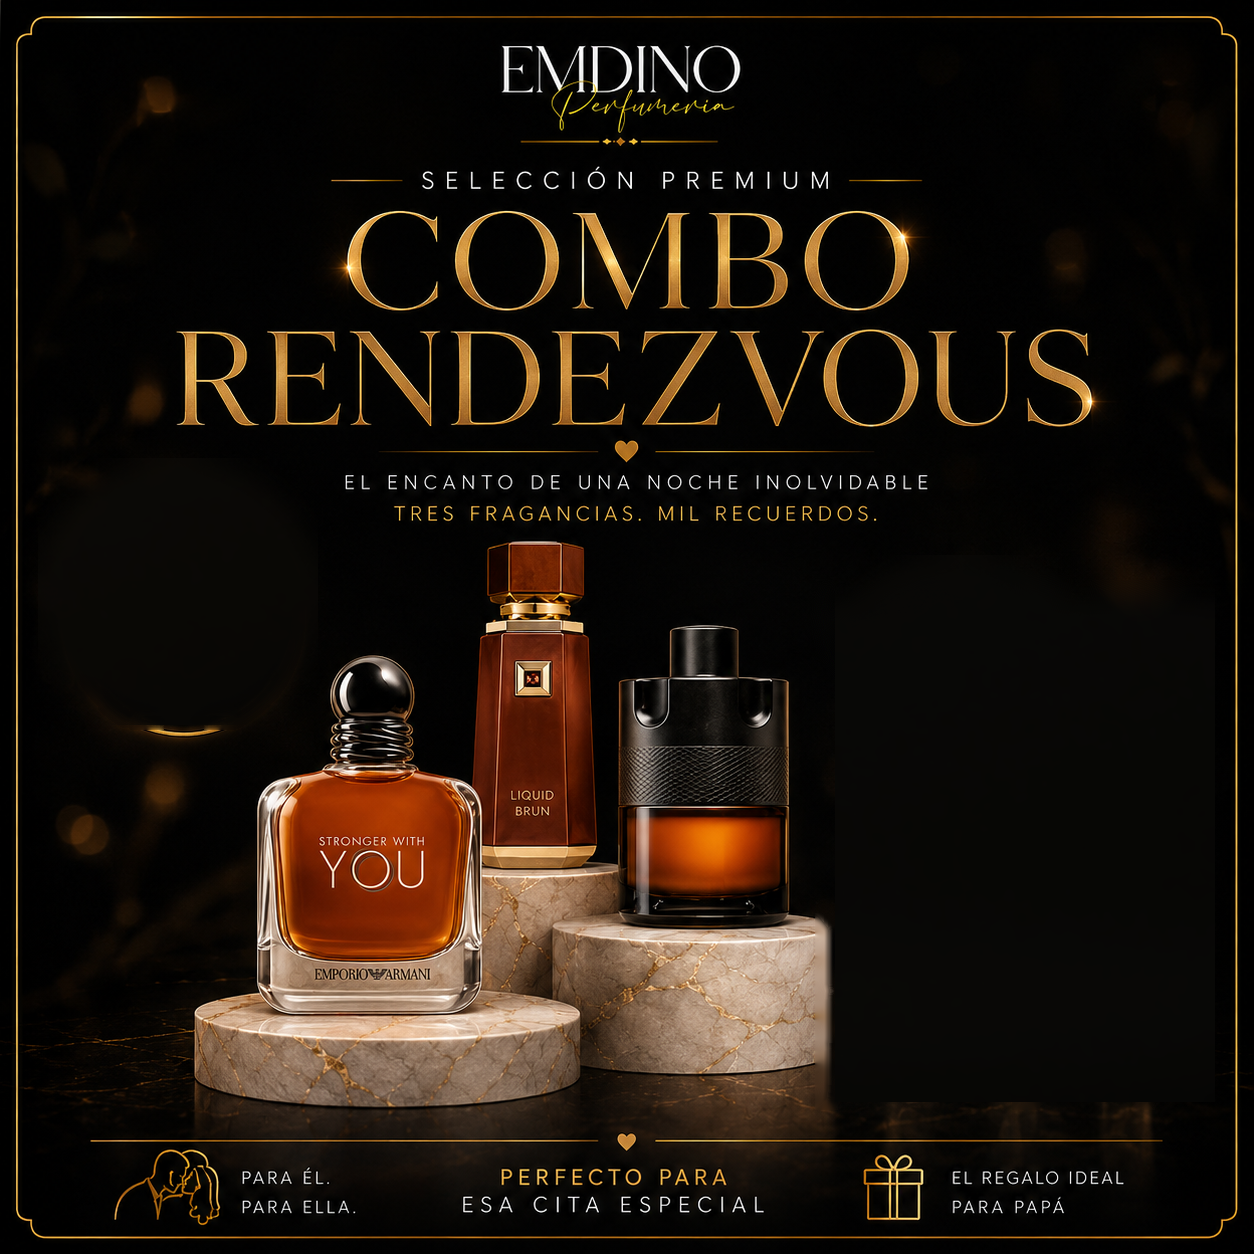
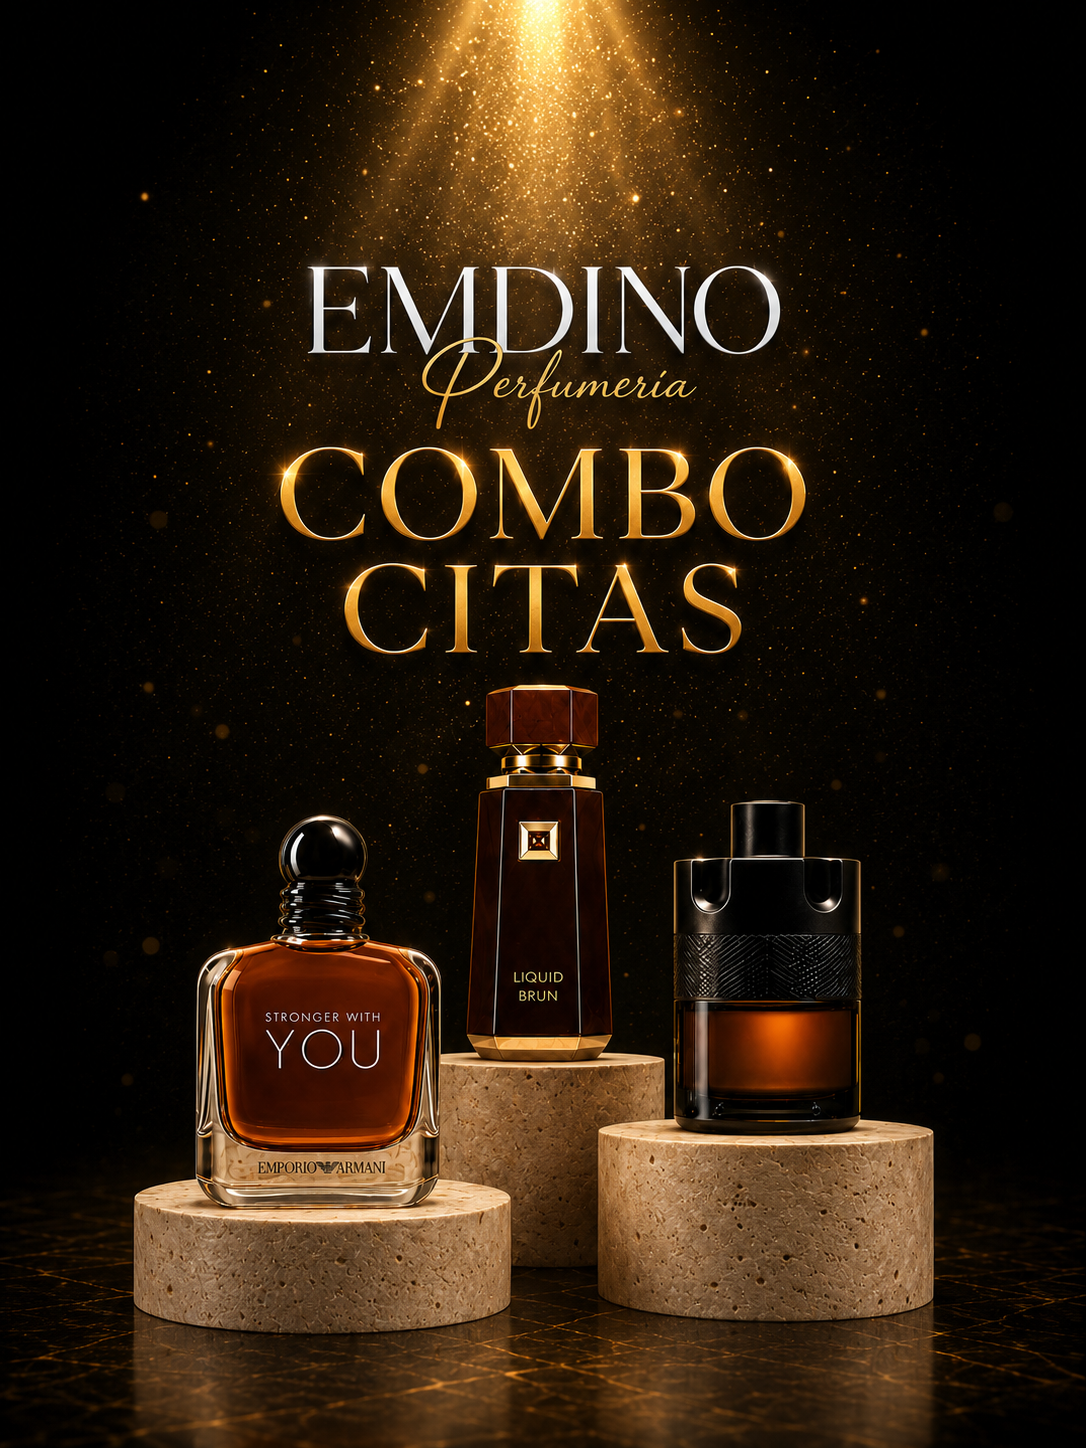
feat(combos): rebrand v4 — renombrar los 12 combos y actualizar imágenes
Renombra los 12 combos a nombres nuevos (Party, Citas, Atractivo, Fresco,
Irresistible, Boliche, Le Beau, Mix, Premium, y los ex-Día del Padre pasan a
Nicho, Gentleman, Formal). Los slugs se mantienen para no romper referencias.
Reemplaza las 12 imágenes (emparejadas por contenido) y agrega la migración
0012 (ya aplicada en producción). Único tagline ajustado: el de papá → Gentleman.

diff --git a/src/data/combos.js b/src/data/combos.js
@@ -7,7 +7,7 @@ export const EMDINO_COMBOS_FALLBACK = [
   // ---------- Día del Padre (nuevos, precio único sin descuento) ----------
   {
     id: "combo-dia-padre-exclusivo",
-    nombre: "Día del Padre Exclusivo",
+    nombre: "Nicho",
     tagline: "Regalá lo que realmente lo representa",
     items: ["xerjoff-naxos", "pdm-layton", "nishane-hacivat"],
     incluye: ["Xerjoff Naxos", "Parfums de Marly Layton", "Nishane Hacivat"],
@@ -21,8 +21,8 @@ export const EMDINO_COMBOS_FALLBACK = [
   },
   {
     id: "combo-dia-padre-premium",
-    nombre: "Día del Padre Premium",
-    tagline: "Para cada momento de papá",
+    nombre: "Gentleman",
+    tagline: "Elegancia para cada ocasión",
     items: ["prada-lhomme-intense", "chanel-allure-sport-extreme", "tf-ombre-leather"],
     incluye: ["Prada L'Homme Intense", "Chanel Allure Homme Sport Eau Extrême", "Tom Ford Ombre Leather"],
     presentacion: "3 fragancias · elegí tu tamaño",
@@ -34,7 +34,7 @@ export const EMDINO_COMBOS_FALLBACK = [
   },
   {
     id: "combo-dia-padre-economico",
-    nombre: "Día del Padre Económico",
+    nombre: "Formal",
     tagline: "Regalá lo que realmente lo representa",
     items: ["rasasi-hawas-ice", "dior-homme-intense", "vr-spicebomb-extreme"],
     incluye: ["Hawas Ice", "Dior Homme Intense", "Spicebomb Extreme"],
@@ -49,7 +49,7 @@ export const EMDINO_COMBOS_FALLBACK = [
   // ---------- Combos permanentes (precios mmfragrances por tamaño) ----------
   {
     id: "combo-party",
-    nombre: "Signature",
+    nombre: "Party",
     tagline: "Para encender la noche",
     items: ["versace-eros-flame", "xerjoff-erba-pura", "jpg-le-male-elixir"],
     incluye: ["Versace Eros Flame", "Xerjoff Erba Pura", "JPG Le Male Elixir"],
@@ -63,7 +63,7 @@ export const EMDINO_COMBOS_FALLBACK = [
   },
   {
     id: "combo-citas",
-    nombre: "Rendezvous",
+    nombre: "Citas",
     tagline: "Para conquistar",
     items: ["armani-swy-edt", "fa-liquid-brun", "azzaro-most-wanted-parfum"],
     incluye: ["SWY EDT", "Liquid Brun", "Azzaro Most Wanted Parfum"],
@@ -76,7 +76,7 @@ export const EMDINO_COMBOS_FALLBACK = [
   },
   {
     id: "combo-mix",
-    nombre: "Prestige Noir",
+    nombre: "Atractivo",
     tagline: "Versátil, de día y de noche",
     items: ["valentino-bir-intense", "ysl-y-edp", "jpg-le-male-le-parfum"],
     incluye: ["Valentino BIR Intense", "YSL Y EDP", "JPG Le Male Le Parfum"],
@@ -89,7 +89,7 @@ export const EMDINO_COMBOS_FALLBACK = [
   },
   {
     id: "combo-fresh",
-    nombre: "Azure Privé",
+    nombre: "Fresco",
     tagline: "Frescura que impacta, elegancia que perdura",
     items: ["ysl-y-edp", "lattafa-asad-zanzibar", "rasasi-hawas-ice"],
     incluye: ["YSL Y EDP", "Asad Zanzibar", "Hawas Ice"],
@@ -102,7 +102,7 @@ export const EMDINO_COMBOS_FALLBACK = [
   },
   {
     id: "combo-irresistible",
-    nombre: "Noir Allure",
+    nombre: "Irresistible",
     tagline: "Seducción, elegancia y exclusividad en cada esencia",
     items: ["armani-swy-intensely", "valentino-bir-intense", "jpg-le-beau-le-parfum"],
     incluye: ["SWY Intensely", "Valentino BIR Intense", "JPG Le Beau Le Parfum"],
@@ -115,7 +115,7 @@ export const EMDINO_COMBOS_FALLBACK = [
   },
   {
     id: "combo-boliche",
-    nombre: "After Dark",
+    nombre: "Boliche",
     tagline: "Estela para la noche",
     items: ["alharamain-amber-oud-gold", "armaf-mandarin-sky", "afnan-9pm-rebel"],
     incluye: ["Amber Oud Gold", "Mandarin Sky", "9PM Rebel"],
@@ -128,7 +128,7 @@ export const EMDINO_COMBOS_FALLBACK = [
   },
   {
     id: "combo-linea-le-beau",
-    nombre: "Paradise Noir",
+    nombre: "Le Beau",
     tagline: "Frescura tropical, elegancia irresistible",
     items: ["jpg-le-beau-edt", "jpg-le-beau-le-parfum", "jpg-le-beau-paradise-garden"],
     incluye: ["Le Beau EDT", "Le Beau Le Parfum", "Le Beau Paradise Garden"],
@@ -141,7 +141,7 @@ export const EMDINO_COMBOS_FALLBACK = [
   },
   {
     id: "combo-best-sellers",
-    nombre: "Best Seller",
+    nombre: "Mix",
     tagline: "Los que más se venden",
     items: ["armani-adg-profondo", "xerjoff-erba-pura", "valentino-bir-intense"],
     incluye: ["Acqua di Giò Profondo", "Xerjoff Erba Pura", "Valentino BIR Intense"],
@@ -155,7 +155,7 @@ export const EMDINO_COMBOS_FALLBACK = [
   },
   {
     id: "combo-nicho",
-    nombre: "Collection Privée",
+    nombre: "Premium",
     tagline: "Exclusividad en tres fragancias que dejan huella",
     items: ["xerjoff-erba-pura", "pdm-layton", "xerjoff-naxos"],
     incluye: ["Erba Pura", "Layton", "Naxos"],
